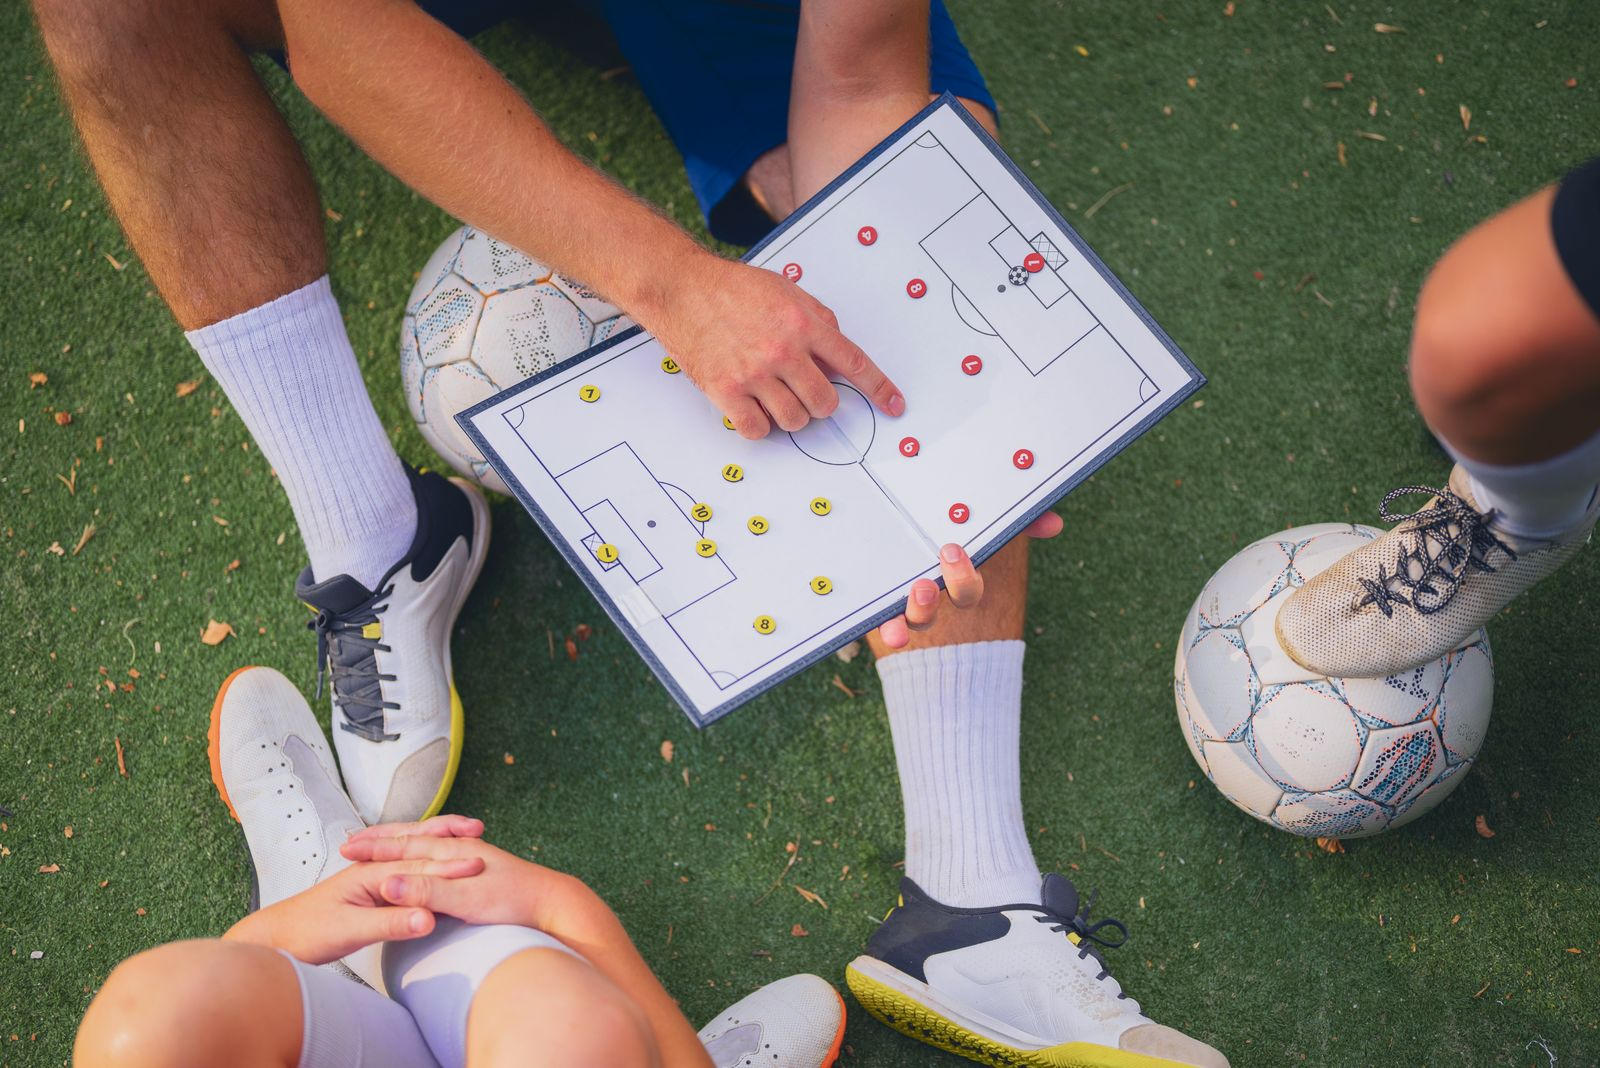
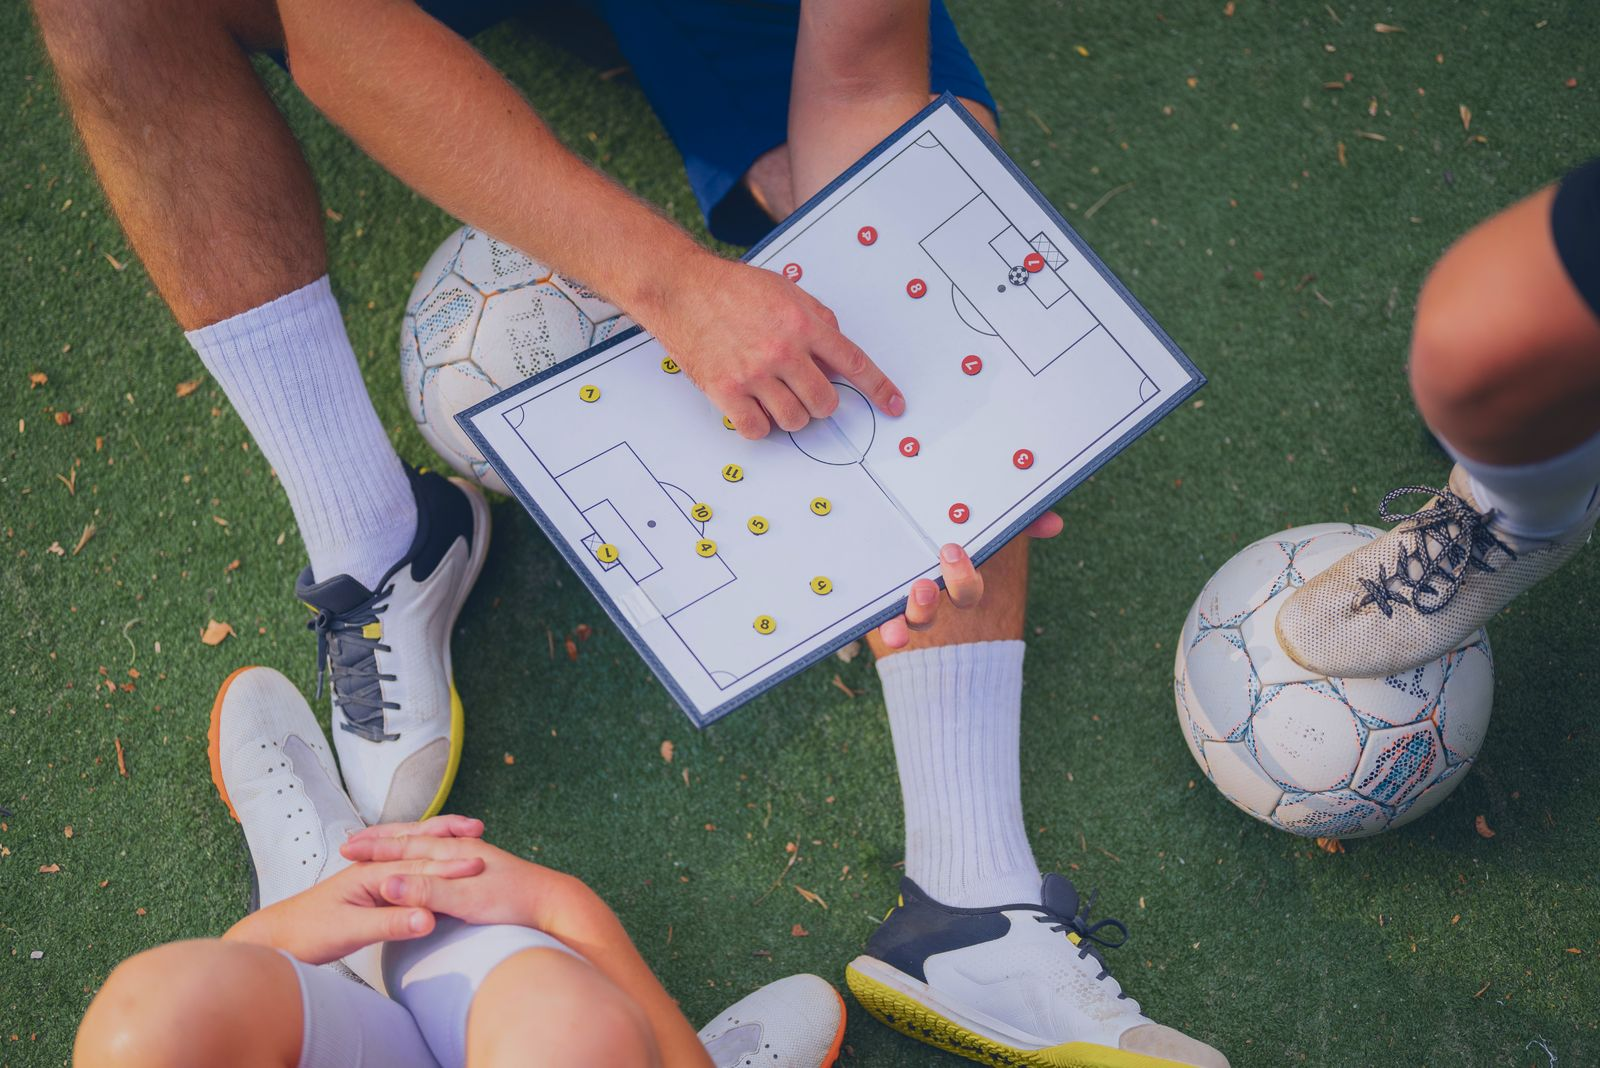
SPECIAL（KICKOFF・天皇杯ほかJFA関連6件）を関連リンクの上に新設、FOR YOUの色調を厳密にそろえる
- 既存サイト右カラムのバナー6件をロゴ化してタイル表示（PC 3×2／SP 2×3）
- KICKOFFは年度の申請開始日を文字で表示（毎年ここを更新）
- FOR YOU 3枚：カードに映る範囲で明度・色味・彩度を同じ値に（tools/gfx/grade_fy.py）

Claude-Session: https://claude.ai/code/session_01FQgtGQXKrTm5tdMPQkMAhc

diff --git a/NFA_site_design/assets/css/style.css b/NFA_site_design/assets/css/style.css
@@ -1486,6 +1486,57 @@ a:hover .arr{transform:translateX(3px)}
 @media (max-width:767px){.lnk a.lk-club{grid-template-columns:44px minmax(0,1fr);column-gap:12px;min-height:84px}.lnk a.lk-club .em{width:44px;height:44px}}
 .lsub-jfa img{height:36px}
 @media (max-width:767px){.lnk.c3{grid-template-columns:1fr}.lsub-jfa img{height:32px}}
+/* v25: SPECIAL（JFA関連・KICKOFF）— PC 3×2／SP 2×3 */
+.spc{display:grid;grid-template-columns:repeat(3,minmax(0,1fr));gap:16px}
+.spc-i{position:relative;display:flex;flex-direction:column;background:#fff;border:1px solid var(--line);color:var(--ink);transition:border-color .3s,transform .5s cubic-bezier(.16,1,.3,1)}
+.spc-i:hover{border-color:var(--navy);transform:translateY(-3px)}
+.spc-i::after{content:"↗";position:absolute;right:14px;top:12px;font-size:12px;color:var(--ink2)}
+.spc-lg{display:flex;align-items:center;justify-content:center;aspect-ratio:16/7;padding:22px 28px;border-bottom:1px solid var(--line)}
+.spc-lg img{display:block;width:auto;height:auto;max-width:72%;max-height:100%;object-fit:contain}
+.spc-tx{display:flex;flex-direction:column;gap:4px;padding:14px 18px 16px}
+.spc-tx b{font-size:14px;font-weight:700;color:var(--navy);letter-spacing:.04em}
+/* KICKOFF：年度の申請開始を強調（毎年ここを更新） */
+.spc-k{border-color:var(--navy)}
+.spc-k .spc-lg img{max-width:84%}
+.spc-dl{font-size:12px;line-height:1.6;color:var(--ink2)}
+.spc-dl em{font-style:normal;font-family:var(--f-en);font-weight:800;letter-spacing:.06em;color:#fff;background:var(--navy);padding:1px 7px;margin-right:6px}
+.spc-dl strong{display:block;margin-top:2px;font-size:18px;font-weight:900;color:var(--navy);letter-spacing:.02em}
+@media (max-width:767px){
+  .spc{grid-template-columns:repeat(2,minmax(0,1fr));gap:10px}
+  .spc-lg{padding:14px 14px;aspect-ratio:16/9}
+  .spc-lg img{max-width:82%}
+  .spc-tx{padding:10px 12px 12px}
+  .spc-tx b{font-size:12px}
+  .spc-dl{font-size:11px}
+  .spc-dl strong{font-size:15px}
+  .spc-i::after{right:8px;top:6px}
+}
+/* v26: SPECIAL 調整：ロゴ欄が伸びて空きを吸収、ロゴの見た目の大きさをそろえる、KICKOFFの締切を紺地で */
+.spc{align-items:stretch}
+.spc-lg{flex:1 1 auto;aspect-ratio:auto;min-height:150px;padding:24px 28px}
+.spc-lg img{max-height:72px;max-width:78%}
+.spc-k .spc-lg img{max-height:58px;max-width:86%}
+.spc-i [alt^="天皇杯"],.spc-i [alt^="皇后杯"]{max-height:64px}
+.spc-i [alt="JFA女子サッカーデー"]{max-height:80px}
+.spc-tx{padding:14px 18px 15px}
+.spc-dl{display:flex;flex-wrap:wrap;align-items:baseline;justify-content:space-between;gap:4px 12px;margin:0;padding:12px 18px 14px;background:var(--navy);color:#fff}
+.spc-dl-l{display:flex;align-items:center;gap:8px;font-size:12px;font-weight:700;color:rgba(255,255,255,.85)}
+.spc-dl em{background:var(--cyan);color:#fff;margin:0;padding:2px 7px}
+.spc-dl strong{display:block;margin:0;font-size:20px;font-weight:900;color:#fff;letter-spacing:.02em;line-height:1.2}
+.spc-k .spc-tx{border-bottom:0}
+@media (max-width:767px){
+  .spc-lg{min-height:96px;padding:14px 12px}
+  .spc-lg img{max-height:46px;max-width:84%}
+  .spc-k .spc-lg img{max-height:34px;max-width:90%}
+  .spc-i [alt^="天皇杯"],.spc-i [alt^="皇后杯"]{max-height:42px}
+  .spc-i [alt="JFA女子サッカーデー"]{max-height:52px}
+  .spc-dl{padding:10px 12px 12px;flex-direction:column;align-items:flex-start;gap:6px}
+  .spc-dl-l{font-size:11px;gap:6px}
+  .spc-dl em{padding:1px 6px}
+  .spc-dl strong{font-size:15px}
+}
+.spc-i [alt^="天皇杯"],.spc-i [alt^="皇后杯"]{max-height:86px}
+@media (max-width:767px){.spc-i [alt^="天皇杯"],.spc-i [alt^="皇后杯"]{max-height:54px}.spc-dl strong{font-size:13.5px;white-space:nowrap}}
 /* ===== 404.html ===== */
 .nf-hero{background:var(--navy);color:#fff;position:relative;overflow:hidden}
 .nf-hero .wrap{position:relative;padding-block:56px 60px}

diff --git a/NFA_site_design/index.html b/NFA_site_design/index.html
@@ -207,6 +207,39 @@
 </div>
 </div>
 </section>
+<!-- SPECIAL（既存サイト右カラムのバナー：JFA関連・KICKOFF） -->
+<section class="sec spc-sec" id="special">
+<div class="wrap">
+<div class="sh"><div class="e">SPECIAL</div><span class="j">特設・登録</span></div>
+<div class="spc">
+<a class="spc-i spc-k" href="https://www.nagano-fa.or.jp/news_top/office_news/37265" rel="noopener" target="_blank">
+<span class="spc-lg"><img alt="JFA KICKOFF ONLINE REGISTRATION SITE" height="134" loading="lazy" src="assets/img/spc-kickoff.png" width="561"/></span>
+<span class="spc-tx"><b>KICKOFF登録について</b></span>
+<span class="spc-dl"><span class="spc-dl-l"><em>2026年度</em><span class="nw">継続申請の受付</span></span><strong><span class="nw">2月13日（金）</span><span class="nw">6:00〜</span></strong></span>
+</a>
+<a class="spc-i" href="https://www.nagano-fa.or.jp/emperorscup" rel="noopener" target="_blank">
+<span class="spc-lg"><img alt="天皇杯 JFA CHAMPIONSHIP" height="122" loading="lazy" src="assets/img/spc-tennou.png" width="242"/></span>
+<span class="spc-tx"><b>天皇杯</b></span>
+</a>
+<a class="spc-i" href="https://www.jfa.jp/match/empressscup_2023/" rel="noopener" target="_blank">
+<span class="spc-lg"><img alt="皇后杯 JFA WOMEN'S CHAMPIONSHIP" height="123" loading="lazy" src="assets/img/spc-kougou.png" width="246"/></span>
+<span class="spc-tx"><b>皇后杯</b></span>
+</a>
+<a class="spc-i" href="https://www.nagano-fa.or.jp/festival/" rel="noopener" target="_blank">
+<span class="spc-lg"><img alt="JFAフェスティバル" height="75" loading="lazy" src="assets/img/spc-fest.png" width="200"/></span>
+<span class="spc-tx"><b>JFAフェスティバル</b></span>
+</a>
+<a class="spc-i" href="https://www.jfa.jp/nadeshikohiroba/" rel="noopener" target="_blank">
+<span class="spc-lg"><img alt="JFAなでしこひろば" height="78" loading="lazy" src="assets/img/spc-hiroba.png" width="213"/></span>
+<span class="spc-tx"><b>JFAなでしこひろば</b></span>
+</a>
+<a class="spc-i" href="https://www.jfa.jp/women/womensfootballday2026/" rel="noopener" target="_blank">
+<span class="spc-lg"><img alt="JFA女子サッカーデー" height="170" loading="lazy" src="assets/img/spc-wday.png" width="395"/></span>
+<span class="spc-tx"><b>JFA女子サッカーデー</b></span>
+</a>
+</div>
+</div>
+</section>
 <!-- RELATED LINKS -->
 <section class="sec" style="padding-top:0">
 <div class="wrap">

diff --git a/tools/gfx/grade_fy.py b/tools/gfx/grade_fy.py
@@ -1,0 +1,26 @@
+"""FOR YOU 3枚を、カードに映る範囲（16:9の中央）の統計で厳密にそろえる"""
+import numpy as np
+from PIL import Image
+from skimage import color
+SRC='/home/claude/web/mv/lic/'; OUT='/home/claude/web/build/src_assets/'
+F=[('F_dev','fy-dev'),('F_start','fy-start'),('F_comm','fy-comm')]
+T=dict(L=47.0, sd=19.0, a=-1.0, b=4.0, C=17.0)   # 目標：明度・ばらつき・色味（わずかに暖色）・彩度
+def crop169(lab):
+    h,w=lab.shape[:2]; ch=int(w*9/16); 
+    if ch>h: cw=int(h*16/9); x=(w-cw)//2; return lab[:,x:x+cw]
+    y=(h-ch)//2; return lab[y:y+ch]
+for s,d in F:
+    im=Image.open(SRC+s+'.jpg').convert('RGB'); im=im.resize((1600,round(im.height*1600/im.width)),Image.LANCZOS)
+    lab=color.rgb2lab(np.asarray(im)/255.0); L,a,b=lab[...,0],lab[...,1],lab[...,2]
+    v=crop169(lab); vL,va,vb=v[...,0],v[...,1],v[...,2]
+    # 明度：平均とばらつきを一致
+    L=(L-vL.mean())/max(vL.std(),1e-3)*T['sd']+T['L']
+    x=np.clip(L/100,0,1); x=0.03+0.94*((3*x**2-2*x**3)*0.4+x*0.6); L=np.clip(x*100,1,97)
+    # 色味：平均の色かぶりを完全に取り除いてから、共通の色味を足す
+    a=a-va.mean(); b=b-vb.mean()
+    C=np.hypot(a,b); vC=np.hypot(va-va.mean(),vb-vb.mean()).mean()
+    k=T['C']/max(vC,1e-3); C2=C*k; C2=np.where(C2>36,36+(C2-36)*0.35,C2); s_=np.where(C>1e-6,C2/np.maximum(C,1e-6),0); a,b=a*s_,b*s_
+    t=np.clip(L/100,0,1); a=a+T['a']+(t-0.5)*1.0; b=b+T['b']+(t-0.5)*6.0
+    out=np.clip(color.lab2rgb(np.dstack([L,a,b])),0,1)
+    o=(out*255+0.5).astype(np.uint8); Image.fromarray(o).save(OUT+d+'.jpg',quality=80,optimize=True,progressive=True)
+    r=crop169(color.rgb2lab(out)); print(d,'L%.1f sd%.1f a%.1f b%.1f C%.1f'%(r[...,0].mean(),r[...,0].std(),r[...,1].mean(),r[...,2].mean(),np.hypot(r[...,1],r[...,2]).mean()))
